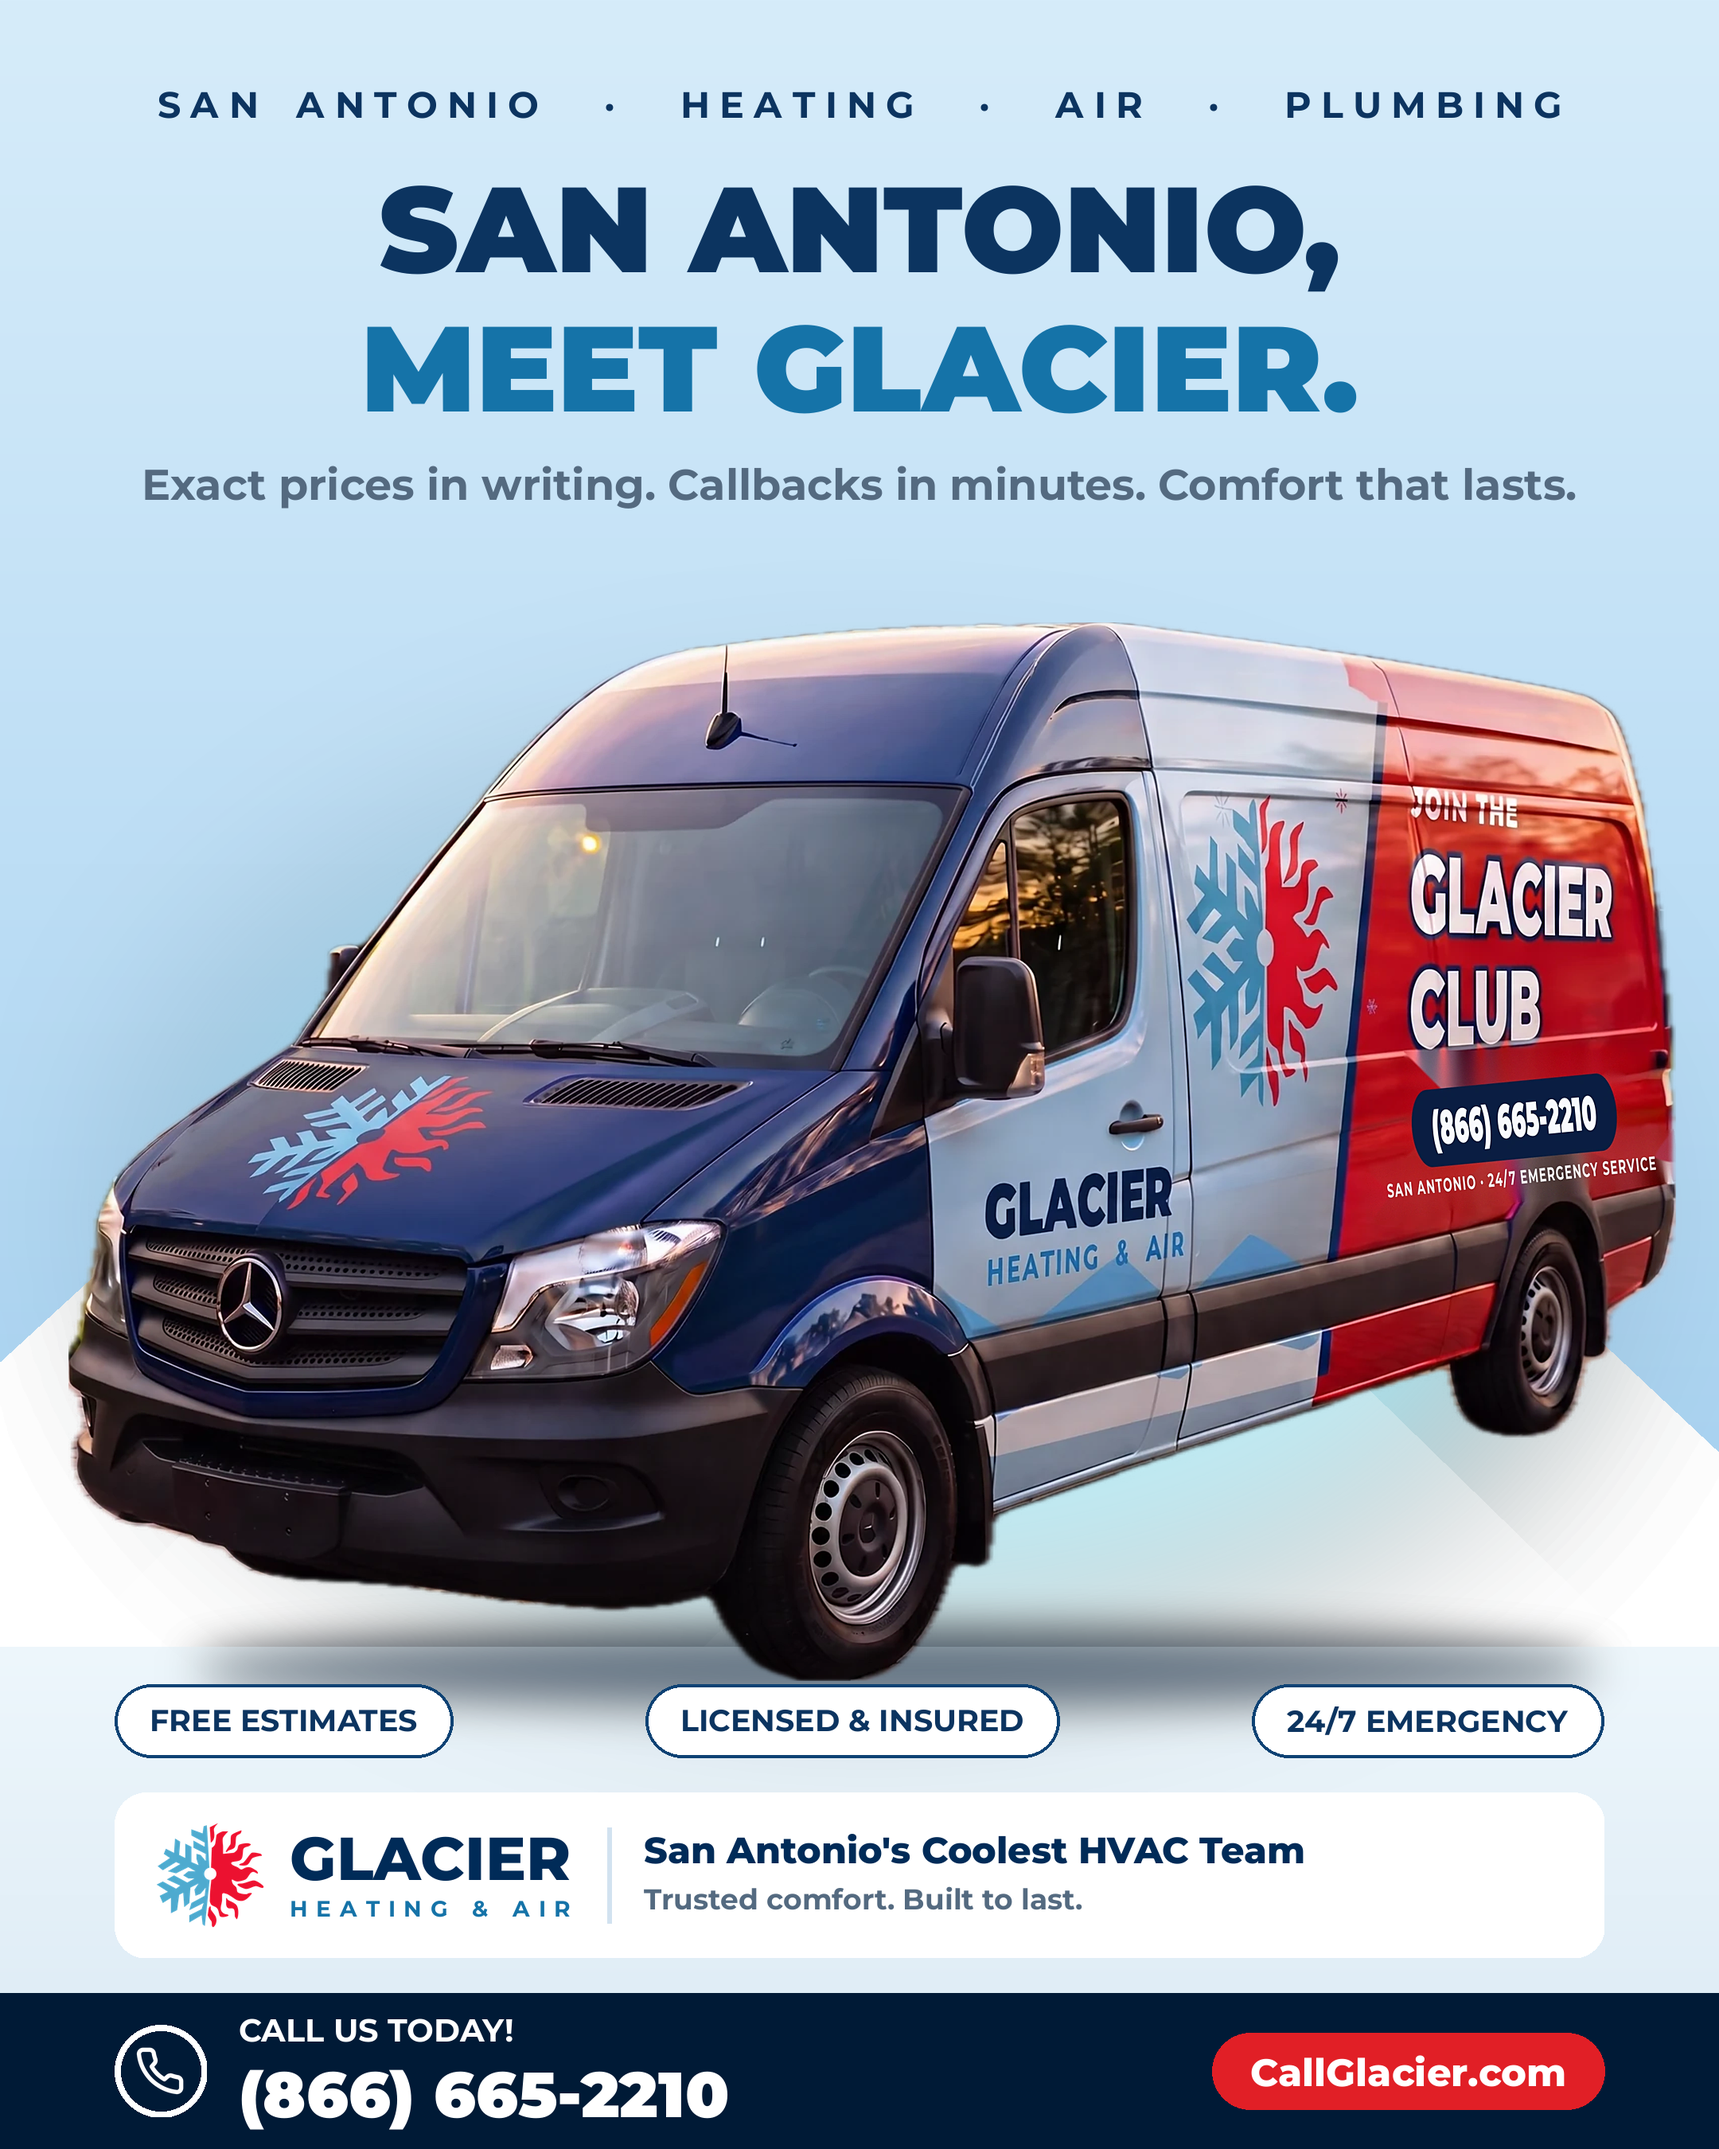
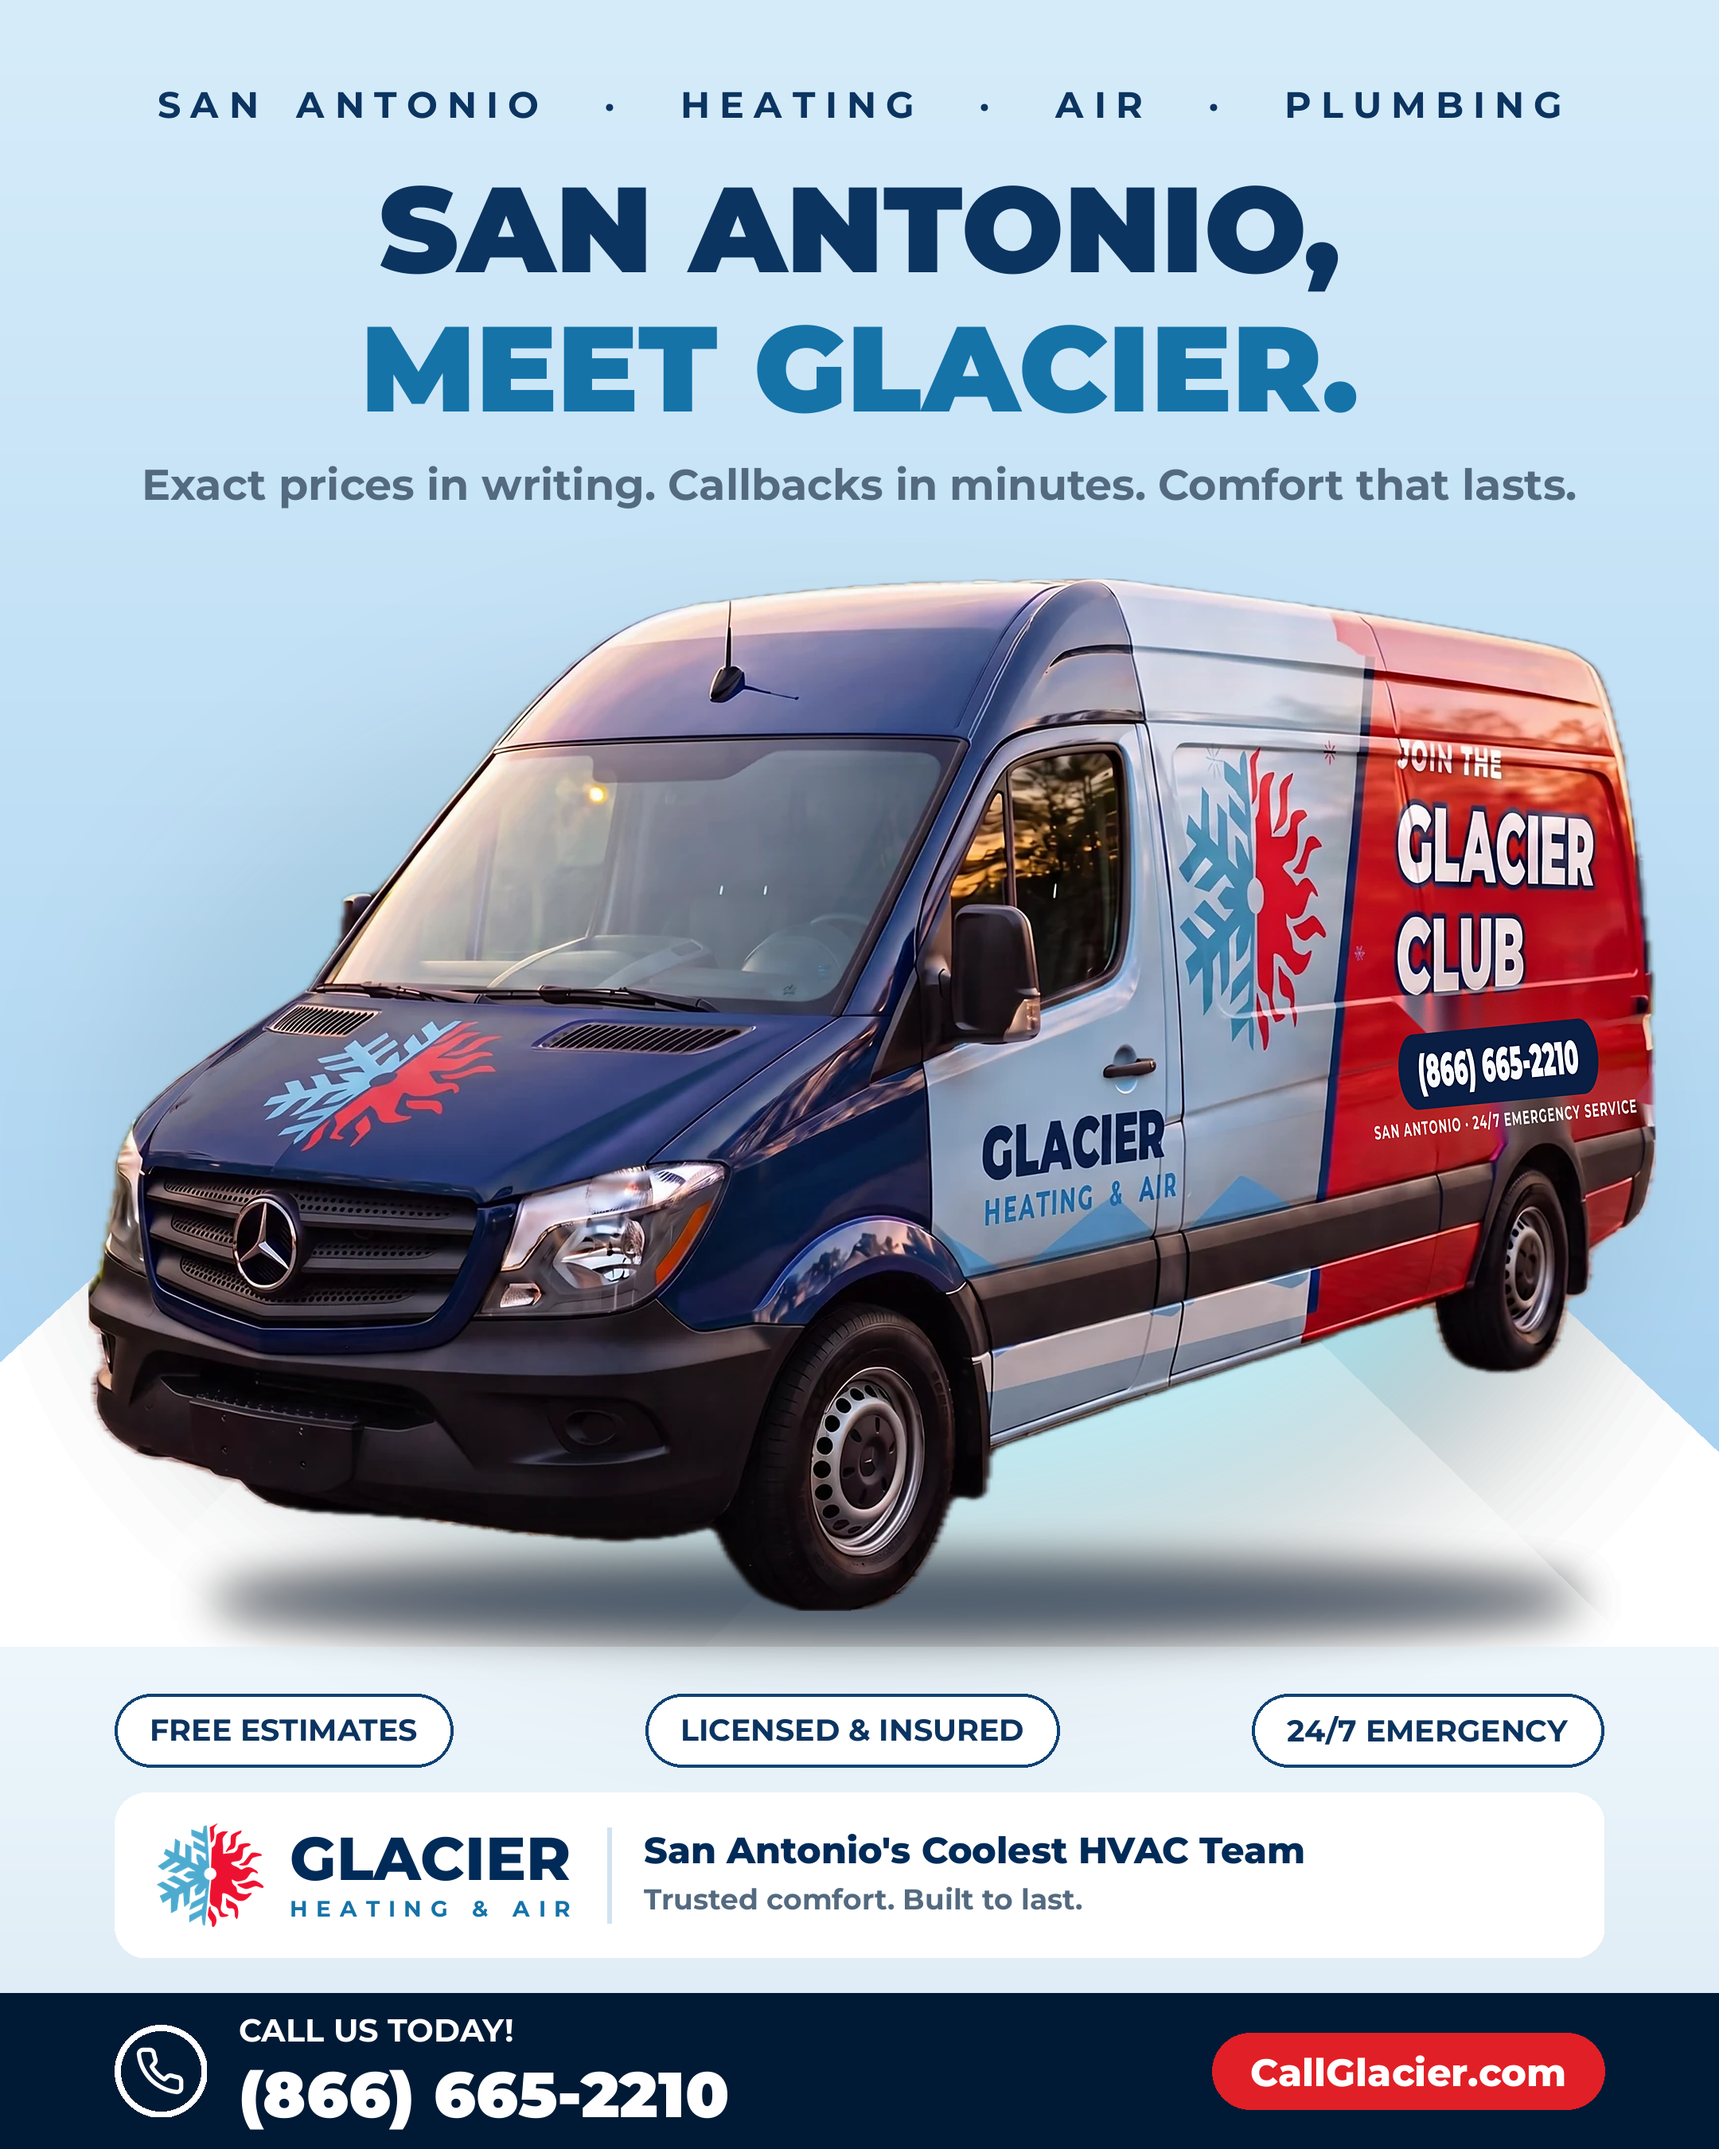
Pinned post v2: van raised off chips row, width trimmed for margin
Claude-Session: https://claude.ai/code/session_0176LFk56ELEVayoECBSNudw

Changed region(s): [[0.031, 0.2489, 0.9926, 0.84]]

diff --git a/glacier-site/scratchpad/make_pinned.py b/glacier-site/scratchpad/make_pinned.py
@@ -54,11 +54,11 @@ TEXT_BOTTOM=336*SC
 
 # ---------- van hero: measured placement ----------
 van=Image.open("public/van.webp").convert("RGBA")
-vw=1010*SC; vh=int(van.height*vw/van.width)
+vw=985*SC; vh=int(van.height*vw/van.width)
 v=van.resize((vw,vh),Image.LANCZOS).filter(ImageFilter.UnsharpMask(1.4,42,2))
 bbox=v.getbbox()                      # true painted bounds of the cutout
 vx=(W-vw)//2+8*SC
-vy=GROUND-bbox[3]+int(26*SC)          # wheels sit ON the ground line
+vy=GROUND-bbox[3]-int(18*SC)          # wheels float just above the ground line
 assert vy+bbox[1] > TEXT_BOTTOM+14*SC, f"van top {vy+bbox[1]} collides text {TEXT_BOTTOM}"
 glow=Image.new("RGBA",(W,H),(0,0,0,0)); gd=ImageDraw.Draw(glow)
 gd.ellipse([vx+int(vw*0.06),vy+int(vh*0.14),vx+vw-int(vw*0.06),vy+vh-int(vh*0.02)],fill=(72,202,228,60))
@@ -75,7 +75,7 @@ chips=["FREE ESTIMATES","LICENSED & INSURED","24/7 EMERGENCY"]
 fc=f("Bold",19)
 cw=[T(d,t,fc)[0]+int(44*SC) for t in chips]
 gap=(W-2*M-sum(cw))//2
-cx=M; ch=int(46*SC); cy0=GROUND+int(28*SC)
+cx=M; ch=int(46*SC); cy0=GROUND+int(34*SC)
 for t,wd in zip(chips,cw):
     d.rounded_rectangle([cx,cy0,cx+wd,cy0+ch],radius=ch//2,fill=(255,255,255,235),outline=(13,66,116,140),width=2*SC)
     w,hh,bb=T(d,t,fc)
